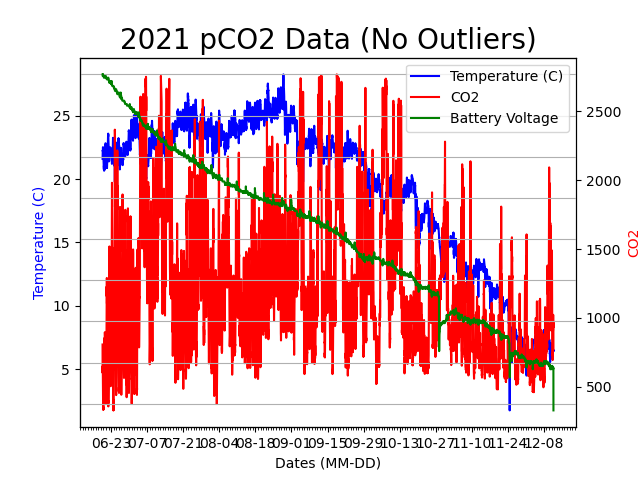
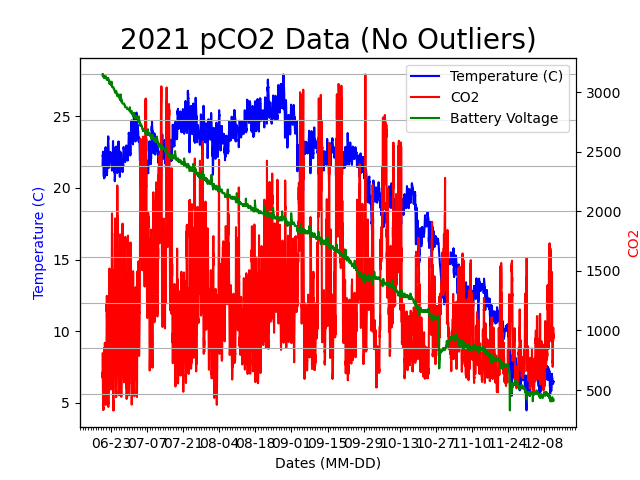
fixed outliers

diff --git a/pCO2_data/Test_1_ Graph.py b/pCO2_data/Test_1_ Graph.py
@@ -43,16 +43,39 @@ print("Original data after empty values are taken out: ", len(xData))
 # Extracts outliers from dataframe
 # If any value in the 3 colums is an outlier, removes entire row
 completeRowData = pd.DataFrame({"Date": xData, "Temp": tyData, "CO2": cyData, "Battery": byData})
-completeRowData = completeRowData[(np.abs(stats.zscore(completeRowData)) < 3).all(axis = 1)]
+
+def extractOutliers(start, end):
+    intervalDf = completeRowData.loc[(completeRowData['Date'] >= start) & (completeRowData['Date'] < end)]
+    print("Original data for specified interval: ", len(intervalDf.get('Date')))
+    noOutliersDf = intervalDf[(np.abs(stats.zscore(intervalDf)) < 3).all(axis = 1)]
+    print("Data without outliers for specified interval: ", len(noOutliersDf.get('Date')))
+    return noOutliersDf
+
+januaryDf = extractOutliers(1, 32)
+februaryDf = extractOutliers(32, 60)
+marchDf = extractOutliers(60, 91)
+aprilDf = extractOutliers(91, 121)
+mayDf = extractOutliers(121, 152)
+juneDf = extractOutliers(152, 182)
+julyDF = extractOutliers(182, 213)
+augustDf = extractOutliers(213, 244)
+septemberDf = extractOutliers(244, 274)
+octoberDf = extractOutliers(274, 305)
+novemberDf = extractOutliers(305, 335)
+decemberDf = extractOutliers(335, 366)
+
+
+extractedData = pd.concat([januaryDf, februaryDf, marchDf, aprilDf, mayDf, juneDf, julyDF, augustDf, septemberDf, octoberDf, novemberDf, decemberDf])
+#completeRowData = completeRowData[(np.abs(stats.zscore(completeRowData)) < 3).all(axis = 1)]
 
 # Displays z-score of dataset
 print(stats.zscore(completeRowData))
 
 # Displays number of data points after outliers are removed
-print("Original data after outliers are removed: ", len(completeRowData.get("Date")))
+print("Original data after outliers are removed: ", len(extractedData.get("Date")))
 
 # Display number of outliers
-print("Number of outliers: ", (len(xData) - (len(completeRowData.get("Date")))))
+print("Number of outliers: ", (len(xData) - (len(extractedData.get("Date")))))
 
 # Converts Year Day Column to calendar day and time
 # Extracts time in HH:MM:SS format from date in Year Day column
@@ -125,7 +148,7 @@ def grapher(time, tempC, CO2, batteryV, name):
     return
 
 # Plots graph without outliers
-grapher(completeRowData.get("Date"), completeRowData.get("Temp"), completeRowData.get("CO2"), completeRowData.get("Battery"), "2021 pCO2 Data (No Outliers)")
+grapher(extractedData.get("Date"), extractedData.get("Temp"), extractedData.get("CO2"), extractedData.get("Battery"), "2021 pCO2 Data (No Outliers)")
 
 # Saves without outliers graph to specified name in pCO2_data folder
 plt.savefig('pCO2_2021_Graph_No_Outliers.png')
